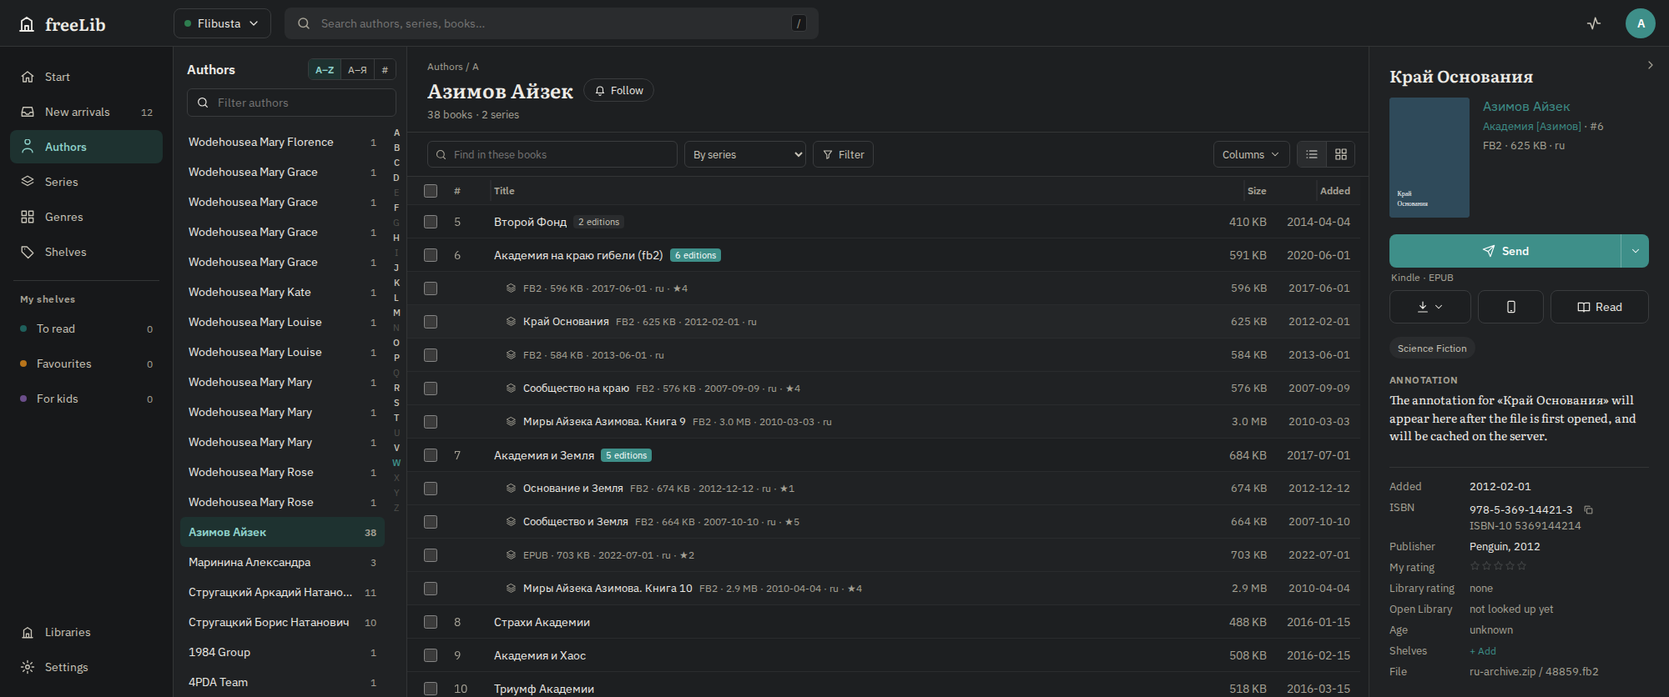
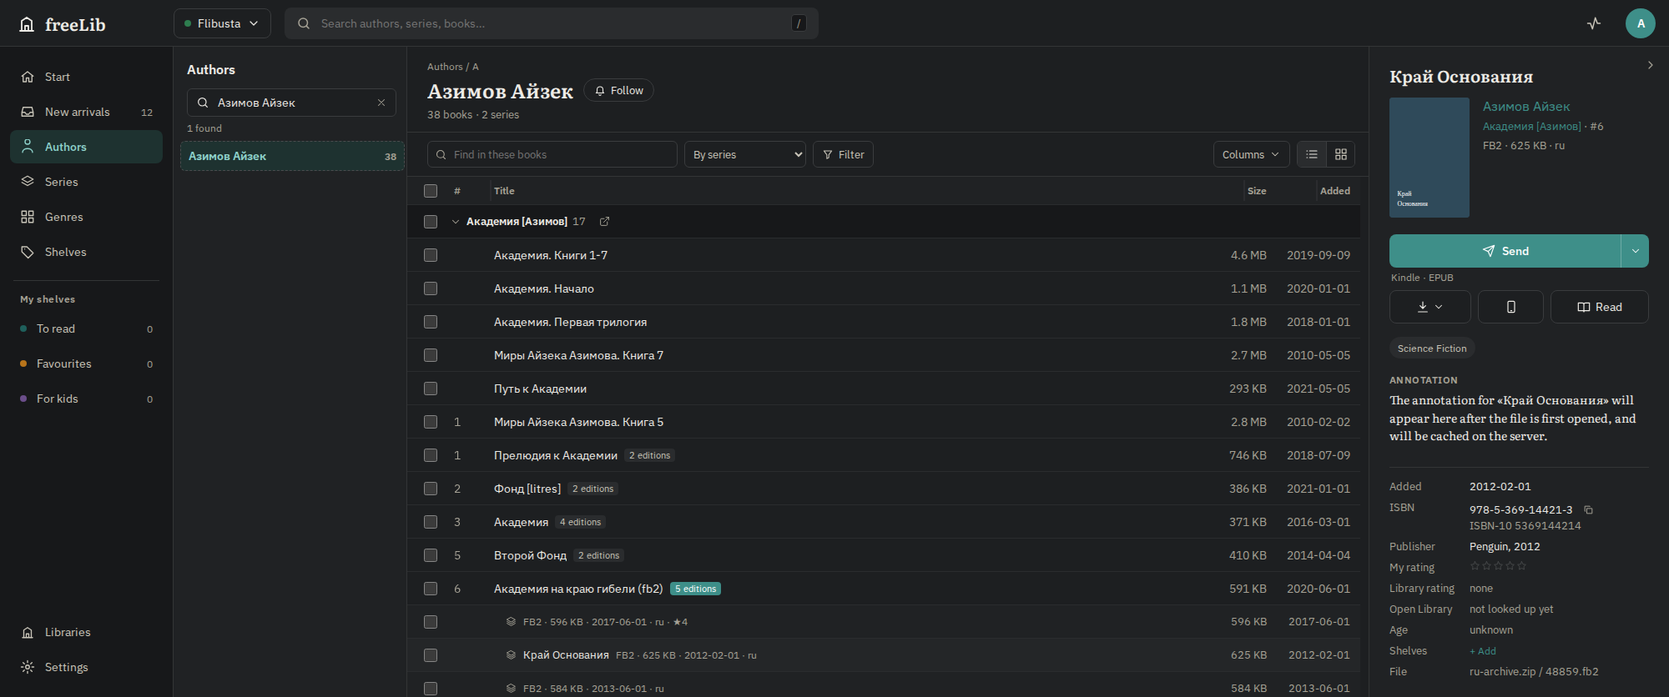
Editions: omnibus and part titles never join a work by series number (#13)
* Editions: omnibus and part titles never join a work by series number

«Миры Айзека Азимова. Книга 9» filed as #6 of «Академия [Азимов]» is an omnibus volume, not
another translation of the #6 novel: a title naming a volume (Книга N, Том N, Часть N, Vol. N,
Part N) now joins other copies only by the title rule. Catalog schema 5 (re-import).

Claude-Session: https://claude.ai/code/session_01CHpYdZBU1bJ65FXV23e9ED

* Devices e2e: reload only after the new order is saved

The drag-and-drop order test reloaded right after the optimistic UI update and could read
the order before the PUT finished (failed on CI).

Claude-Session: https://claude.ai/code/session_01CHpYdZBU1bJ65FXV23e9ED

---------

diff --git a/web/tests/fixes-editions.spec.ts b/web/tests/fixes-editions.spec.ts
@@ -53,16 +53,16 @@ test.describe('desktop', () => {
   test('expanded editions are full rows on the table grid, with their own titles', async ({ page }) => {
     await openAuthor(page, 'Азимов Айзек');
     const list = page.locator('.scroll');
-    // #6: four titles, three copies of one of them → one work
+    // #6: three titles, three copies of one of them → one work; the omnibus «Книга 9» stays apart
     const row6 = list.locator('.brow:not(.edition-row)', { hasText: /Академия на краю гибели|Край Основания|Сообщество на краю/ }).first();
-    await expect(row6.getByTestId('editions-toggle')).toHaveText('6 editions');
+    await expect(row6.getByTestId('editions-toggle')).toHaveText('5 editions');
     await row6.getByTestId('editions-toggle').click();
     const eds = list.getByTestId('edition-row');
-    await expect(eds).toHaveCount(5);
+    await expect(eds).toHaveCount(4);
     // translations under other titles show their title; copies of the group title do not
     await expect(list.getByTestId('edition-title').filter({ hasText: 'Край Основания' })).toBeVisible();
     await expect(list.getByTestId('edition-title').filter({ hasText: 'Сообщество на краю' })).toBeVisible();
-    await expect(list.getByTestId('edition-title').filter({ hasText: 'Миры Айзека Азимова. Книга 9' })).toBeVisible();
+    await expect(list.getByTestId('edition-title').filter({ hasText: 'Миры Айзека Азимова' })).toHaveCount(0);
 
     // geometry: 40px rows, stacked, the checkbox vertically inside its row
     expectStacked(await rowBoxes(list.locator('.vlist > div > div > *')), 40);
@@ -78,9 +78,9 @@ test.describe('desktop', () => {
     const cell = await eds.first().locator('.right').first().boundingBox();
     expect(Math.abs(head!.x + head!.width - (cell!.x + cell!.width))).toBeLessThan(1.5);
 
-    // #7 and #5 are joined too; the unnumbered omnibus volumes stay single
-    await expect(list.locator('.brow', { hasText: /Академия и Земля|Основание и Земля/ }).first().getByTestId('editions-toggle')).toHaveText('5 editions');
-    for (const t of ['Академия. Начало', 'Академия. Первая трилогия', 'Путь к Академии', 'Миры Айзека Азимова. Книга 7']) {
+    // #7 and #5 are joined too; omnibus volumes and unnumbered books stay single
+    await expect(list.locator('.brow', { hasText: /Академия и Земля|Основание и Земля/ }).first().getByTestId('editions-toggle')).toHaveText('4 editions');
+    for (const t of ['Академия. Начало', 'Академия. Первая трилогия', 'Путь к Академии', 'Миры Айзека Азимова. Книга 7', 'Миры Айзека Азимова. Книга 9', 'Миры Айзека Азимова. Книга 10']) {
       const r = list.locator('.brow:not(.edition-row)', { hasText: t });
       await expect(r).toHaveCount(1);
       await expect(r.getByTestId('editions-toggle')).toHaveCount(0);
@@ -148,7 +148,7 @@ test.describe('desktop', () => {
     const grid = page.locator('.grid-view');
     const head = grid.locator('.grid-group', { hasText: 'Академия [Азимов]' });
     await expect(head).toBeVisible();
-    await expect(grid.locator('.cover-card .ed-count', { hasText: '6 editions' })).toBeVisible();
+    await expect(grid.locator('.cover-card .ed-count', { hasText: '5 editions' })).toBeVisible();
     const cards = grid.locator('.cover-card');
     const n = await cards.count();
     await head.locator('.gtoggle').click();
@@ -170,7 +170,7 @@ test.describe('phone', () => {
     const list = page.locator('.mobile-list');
     const row = list.locator('.m-row', { hasText: /Академия на краю гибели|Край Основания/ }).first();
     await row.getByTestId('editions-toggle').click();
-    await expect(list.getByTestId('edition-row')).toHaveCount(5);
+    await expect(list.getByTestId('edition-row')).toHaveCount(4);
     await expect(list.getByTestId('edition-title').filter({ hasText: 'Край Основания' })).toBeVisible();
     expectStacked(await rowBoxes(list.locator('.vlist > div > div > *')), 64);
     for (const ed of await list.getByTestId('edition-row').all()) await expectCellsInside(ed);

diff --git a/web/tests-real/fixes.spec.ts b/web/tests-real/fixes.spec.ts
@@ -20,21 +20,23 @@ test('translations under other titles are one work; unnumbered books stay single
   const { id, books } = await asimov(request);
   const byNo = (n: number) => books.filter((b) => b.serno === n);
   // one row per number, with all its titles
-  expect(byNo(6)).toHaveLength(1);
-  expect(byNo(6)[0].editions?.count).toBeGreaterThanOrEqual(6);
-  expect(byNo(7)[0].editions?.count).toBeGreaterThanOrEqual(5);
+  // one row per novel, plus the omnibus volume filed under the same number
+  const novel = (n: number) => byNo(n).filter((b) => !/Миры Айзека Азимова/.test(b.title));
+  expect(novel(6)).toHaveLength(1);
+  expect(novel(6)[0].editions?.count).toBeGreaterThanOrEqual(5);
+  expect(novel(7)[0].editions?.count).toBeGreaterThanOrEqual(4);
   expect(byNo(5)[0].editions?.count).toBe(2);
   expect(byNo(8)[0].editions).toBeUndefined();
   // the best copy is a plain novel, not the omnibus volume
-  expect(byNo(6)[0].title).not.toMatch(/Книга \d/);
-  for (const t of ['Академия. Книги 1-7', 'Академия. Начало', 'Путь к Академии', 'Миры Айзека Азимова. Книга 7']) {
+  expect(novel(6)[0].title).not.toMatch(/Книга \d/);
+  for (const t of ['Академия. Книги 1-7', 'Академия. Начало', 'Путь к Академии', 'Миры Айзека Азимова. Книга 7', 'Миры Айзека Азимова. Книга 9', 'Миры Айзека Азимова. Книга 10']) {
     const b = books.find((x) => x.title === t);
     expect(b, t).toBeTruthy();
     expect(b!.editions, t).toBeUndefined();
   }
 
   // the list: the work's other titles as full rows
-  const best = byNo(6)[0];
+  const best = novel(6)[0];
   await page.goto(`/l/${LIB}/authors/${id}?book=${best.id}`);
   const row = page.locator('.scroll .brow', { hasText: best.title }).first();
   await expect(row).toBeVisible({ timeout: 15000 });

diff --git a/web/mock/find.ts b/web/mock/find.ts
@@ -189,21 +189,19 @@ export function indexWorks(lib: MockLibrary) {
     if (max > 5 || (titlesByNo.size === 1 && all.size >= 3) || (all.size >= 6 && max * 2 > all.size)) continue;
     const buckets = new Map<string, MockBook[]>();
     for (const b of list) {
+      // a title naming a volume (an omnibus «… Книга 9», a part «… Том 1») joins only by title
+      if (volumeNumber(b.title) !== null) continue;
       const k = `${b.lang}|${b.serno}|${b.authorIds[0]}`;
       (buckets.get(k) ?? buckets.set(k, []).get(k)!).push(b);
     }
     for (const bucket of buckets.values()) {
-      const vols = new Set(bucket.map((b) => volumeNumber(b.title)).filter((v) => v !== null));
-      const parts = vols.size >= 2 ? [...vols].map((v) => bucket.filter((b) => volumeNumber(b.title) === v)) : [bucket];
-      for (const part of parts) {
-        const sorted = part.slice().sort((a, b) => b.authorIds.length - a.authorIds.length);
-        const clusters: { set: Set<number>; key: string }[] = [];
-        for (const b of sorted) {
-          const set = new Set(b.authorIds);
-          const c = clusters.find((cl) => [...set].every((a) => cl.set.has(a)) || [...cl.set].every((a) => set.has(a)));
-          if (c) union(c.key, titleWorkKey(b));
-          else clusters.push({ set, key: titleWorkKey(b) });
-        }
+      const sorted = bucket.slice().sort((a, b) => b.authorIds.length - a.authorIds.length);
+      const clusters: { set: Set<number>; key: string }[] = [];
+      for (const b of sorted) {
+        const set = new Set(b.authorIds);
+        const c = clusters.find((cl) => [...set].every((a) => cl.set.has(a)) || [...cl.set].every((a) => set.has(a)));
+        if (c) union(c.key, titleWorkKey(b));
+        else clusters.push({ set, key: titleWorkKey(b) });
       }
     }
   }

diff --git a/web/tests/devices.spec.ts b/web/tests/devices.spec.ts
@@ -17,9 +17,13 @@ test('device order: arrows and drag and drop; the first device is the default ev
     await expect(page.getByRole('button', { name: 'Move Kindle (USB) up' })).toBeDisabled();
     // drag "Kobo" onto the first row
     const kobo = page.getByTestId('device-row').filter({ hasText: 'Kobo' }).locator('.handle');
+    const saved = page.waitForResponse(
+      async (r) => r.url().endsWith('/devices/order') && r.request().method() === 'PUT' && (await r.json().catch(() => []))[0]?.name === 'Kobo',
+    );
     await kobo.dragTo(page.getByTestId('device-row').first(), { targetPosition: { x: 20, y: 4 } });
     await expect.poll(async () => (await names(page))[0]).toBe('Kobo');
-    // persisted on the server
+    // persisted on the server (reload only once the new order is saved)
+    await saved;
     await page.reload();
     await expect.poll(async () => (await names(page))[0]).toBe('Kobo');
 

diff --git a/server/crates/catalog/src/works.rs b/server/crates/catalog/src/works.rs
@@ -9,8 +9,9 @@
 //! 2. **Series-number rule** ([`series_number_merges`]): same language, same series, same
 //!    series number (> 0), same first author and compatible author sets (one contains the
 //!    other) — different translations of one novel under different titles («Академия на краю
-//!    гибели», «Край Основания», «Сообщество на краю» as #6). Not applied when the titles name
-//!    different volumes (`Том 1` / `Том 2`), nor in series whose numbering looks unreliable.
+//!    гибели», «Край Основания», «Сообщество на краю» as #6). Titles naming a volume (an
+//!    omnibus `Миры Айзека Азимова. Книга 9`, a part `Том 1`) never join by this rule, only by
+//!    the title rule; nor is it applied in series whose numbering looks unreliable.
 //!
 //! Books by an unknown author and generic titles ("Избранное", "Рассказы") keep their own id.
 //! A list is grouped in memory: each work appears once, at the position of its first edition
@@ -18,8 +19,7 @@
 //!
 //! **Best copy** (first difference wins):
 //! 1. not deleted;
-//! 2. its title names no volume (`Миры Айзека Азимова. Книга 9` joined by the series-number
-//!    rule is an omnibus: a plain copy of the novel represents the work better);
+//! 2. its title names no volume (a plain copy represents the work better than `… Том 1`);
 //! 3. has a cover (as far as the server knows — covers are only known for books whose preview
 //!    was extracted; unknown ranks between yes and no);
 //! 4. format: FB2 (converts best, usually with its cover), then EPUB, then anything else;
@@ -362,7 +362,12 @@ pub fn series_number_merges(books: &[SeriesBook]) -> HashMap<i64, i64> {
         }
         // one bucket per language, number and first author
         let mut buckets: HashMap<(&str, i64, i64), Vec<&SeriesBook>> = HashMap::new();
-        for b in list.iter().filter(|b| !b.authors.is_empty()) {
+        // a title naming a volume (`Миры Айзека Азимова. Книга 9`, `Люди за спиной. Том 1`) is an
+        // omnibus or a part: it joins other copies only by the title rule
+        for b in list
+            .iter()
+            .filter(|b| !b.authors.is_empty() && b.volume.is_none())
+        {
             buckets
                 .entry((b.lang.as_str(), b.serno, b.authors[0]))
                 .or_default()
@@ -371,43 +376,23 @@ pub fn series_number_merges(books: &[SeriesBook]) -> HashMap<i64, i64> {
         let mut keys: Vec<_> = buckets.keys().copied().collect();
         keys.sort_unstable();
         for k in keys {
-            let bucket = &buckets[&k];
-            let volumes: std::collections::HashSet<u64> =
-                bucket.iter().filter_map(|b| b.volume).collect();
-            // different volumes under one number: only the same volume joins
-            let parts: Vec<Vec<&SeriesBook>> = if volumes.len() >= 2 {
-                let mut vs: Vec<u64> = volumes.into_iter().collect();
-                vs.sort_unstable();
-                vs.iter()
-                    .map(|v| {
-                        bucket
-                            .iter()
-                            .filter(|b| b.volume == Some(*v))
-                            .copied()
-                            .collect()
-                    })
-                    .collect()
-            } else {
-                vec![bucket.clone()]
-            };
-            for mut part in parts {
-                // author sets: a book joins a cluster whose set contains its own or is contained
-                part.sort_by_key(|b| std::cmp::Reverse(b.authors.len()));
-                let mut clusters: Vec<(Vec<i64>, i64)> = Vec::new();
-                for b in part {
-                    let mut set = b.authors.clone();
-                    set.sort_unstable();
-                    set.dedup();
-                    let hit = clusters.iter().position(|(cs, _)| {
-                        set.iter().all(|a| cs.binary_search(a).is_ok())
-                            || cs.iter().all(|a| set.binary_search(a).is_ok())
-                    });
-                    match hit {
-                        Some(i) => union(&mut parent, clusters[i].1, b.work),
-                        None => {
-                            parent.entry(b.work).or_insert(b.work);
-                            clusters.push((set, b.work));
-                        }
+            let mut part = buckets[&k].clone();
+            // author sets: a book joins a cluster whose set contains its own or is contained
+            part.sort_by_key(|b| std::cmp::Reverse(b.authors.len()));
+            let mut clusters: Vec<(Vec<i64>, i64)> = Vec::new();
+            for b in part {
+                let mut set = b.authors.clone();
+                set.sort_unstable();
+                set.dedup();
+                let hit = clusters.iter().position(|(cs, _)| {
+                    set.iter().all(|a| cs.binary_search(a).is_ok())
+                        || cs.iter().all(|a| set.binary_search(a).is_ok())
+                });
+                match hit {
+                    Some(i) => union(&mut parent, clusters[i].1, b.work),
+                    None => {
+                        parent.entry(b.work).or_insert(b.work);
+                        clusters.push((set, b.work));
                     }
                 }
             }
@@ -521,21 +506,21 @@ mod tests {
         ];
         let w = works_of(books);
         let same = |ix: &[usize]| ix.iter().all(|&i| w[i] == w[ix[0]]);
-        assert!(same(&[0, 1, 2]), "#1");
+        assert!(same(&[1, 2]), "#1");
         assert!(same(&[3, 4, 5, 6]), "#3");
         assert!(same(&[7, 8]), "#5");
-        assert!(same(&[9, 10, 11, 12, 13]), "#6");
-        assert!(same(&[14, 15, 16, 17]), "#7");
+        assert!(same(&[9, 10, 11, 13]), "#6");
+        assert!(same(&[14, 16, 17]), "#7");
         assert!(same(&[27, 28]), "#2");
         // numbers stay apart
-        let firsts = [0, 27, 3, 7, 9, 14, 18, 19, 20];
+        let firsts = [1, 27, 3, 7, 9, 14, 18, 19, 20];
         for (a, &i) in firsts.iter().enumerate() {
             for &j in &firsts[a + 1..] {
                 assert_ne!(w[i], w[j], "{} / {}", books[i].0, books[j].0);
             }
         }
-        // unnumbered books are only their own work
-        for i in 21..=26 {
+        // omnibus volumes and unnumbered books are only their own work
+        for i in [0, 12, 15].into_iter().chain(21..=26) {
             assert!(
                 w.iter().enumerate().all(|(j, &x)| j == i || x != w[i]),
                 "{}",

diff --git a/server/crates/import/tests/catalog.rs b/server/crates/import/tests/catalog.rs
@@ -1088,7 +1088,7 @@ fn showcase_editions_are_grouped() {
     };
     let stats = import_inpx(&opts, &|_, _, _: &str| {}, &AtomicBool::new(false)).unwrap();
     assert!(
-        stats.series_works_joined >= 10,
+        stats.series_works_joined >= 8,
         "{}",
         stats.series_works_joined
     );
@@ -1112,12 +1112,10 @@ fn showcase_editions_are_grouped() {
             "Академия на краю гибели",
             "Академия на краю гибели (fb2)",
             "Край Основания",
-            "Миры Айзека Азимова. Книга 9",
             "Сообщество на краю",
         ],
         &[
             "Академия и Земля",
-            "Миры Айзека Азимова. Книга 10",
             "Основание и Земля",
             "Сообщество и Земля",
         ],
@@ -1137,6 +1135,9 @@ fn showcase_editions_are_grouped() {
     assert_ne!(one("Страхи Академии"), one("Академия и Хаос"));
     assert_ne!(one("Академия на краю гибели"), one("Академия и Земля"));
     for t in [
+        "Миры Айзека Азимова. Книга 5",
+        "Миры Айзека Азимова. Книга 9",
+        "Миры Айзека Азимова. Книга 10",
         "Академия. Книги 1-7",
         "Академия. Начало",
         "Академия. Первая трилогия",

diff --git a/server/crates/catalog/src/schema.rs b/server/crates/catalog/src/schema.rs
@@ -10,7 +10,9 @@ use rusqlite::Connection;
 ///    (editions of one work).
 /// 4: better edition detection: `work_id` also joins translations under other titles by
 ///    series number, title keys drop format notes / repeated volume numbers (re-import).
-pub const CATALOG_SCHEMA_VERSION: i64 = 4;
+/// 5: omnibus / part titles (`Миры Айзека Азимова. Книга 9`) no longer join a work by series
+///    number (re-import).
+pub const CATALOG_SCHEMA_VERSION: i64 = 5;
 
 /// Catalog tables. Created on an empty database by the importer *before* the bulk load;
 /// indexes ([`CATALOG_INDEXES`]) are created afterwards.

diff --git a/docs/web/ARCHITECTURE.md b/docs/web/ARCHITECTURE.md
@@ -199,7 +199,7 @@ top-level "Прочее" (id 11). A book's genre ids are deduplicated; books wit
 * **Editions** (`works.rs`, see "Editions: how works are detected" below): `work_id` = the smallest book id of the
   work. Lists group in memory (`BookAttrs` now also holds size and work id, +8 bytes/book, and a "title names a
   volume" flag), each work at the position of its first edition; the best copy: not deleted > title names no volume
-  (an omnibus «Миры Айзека Азимова. Книга 9» joined by series number never represents the novel) > known cover >
+  (a plain copy represents the work better than `… Том 1`) > known cover >
   FB2 > EPUB > other > larger (20 % buckets, ≤ 30 MB) > newer > library rating > lower id. Covers are known per library and `book_key` from preview extraction since the server started
   (`find::CoverHints`, not persisted) and passed as `RatingSource::has_cover`. Grouped pages are cut by offset from
   the grouped selection. Search groups after ranking; MCP `search_books` always groups.
@@ -226,18 +226,17 @@ it once, as its best copy, with "N editions" to open the others. The importer (`
    (normalised series name), the same series number (> 0), the same language and the same first author, whose author
    sets are compatible (one contains the other: `{Азимов}` and `{Азимов, Сильверберг}` join, `{Азимов, X}` and
    `{Азимов, Y}` do not), are one work — different Russian titles of one novel: «Академия на краю гибели», «Край
-   Основания», «Сообщество на краю» and «Миры Айзека Азимова. Книга 9», all #6 of «Академия [Азимов]». Guards:
+   Основания» and «Сообщество на краю», all #6 of «Академия [Азимов]». Guards:
    * books without a number (or #0) are never joined by this rule («Академия. Первая трилогия», «Путь к Академии»);
-   * titles naming **different volumes** under one number (`Том 1` / `Том 2`, `Книга 9` / `Книга 10`) are not
-     joined; only copies of the same volume are;
+   * titles naming a **volume** (`Книга N`, `Том N`, `Часть N`, `Vol. N`, `Part N`) never join by this rule: an
+     omnibus filed under a number («Миры Айзека Азимова. Книга 9» as #6) stays its own work, and parts
+     (`Том 1` / `Том 2`) only join copies with the same title by the title rule;
    * series whose numbering looks unreliable are skipped entirely: a number with more than 5 distinct titles, all
      titles under one number (3 or more), or one number holding most of the titles of a series with 6 or more.
    Works joined here also merge their title-rule editions (a union-find over work ids; the smallest id wins), and the
    count is reported as `seriesWorksJoined` in the import stats.
 
-An omnibus filed under a number (a "Книга 5" collection as #1) joins that number's work: the catalog cannot tell
-it apart from a translation, but the best-copy rule never shows it as the row. The edition list shows each edition's
-own title when it differs from the row's title. Changing these rules bumps `CATALOG_SCHEMA_VERSION`, which re-imports
+The edition list shows each edition's own title when it differs from the row's title. Changing these rules bumps `CATALOG_SCHEMA_VERSION`, which re-imports
 every library once at start. Unit tests with the real titles: `catalog/src/works.rs`, `catalog/src/text.rs`; an import
 test over the gen-inpx "showcase" books (`import/tests/catalog.rs`).
 

diff --git a/docs/web/API.md b/docs/web/API.md
@@ -263,11 +263,11 @@ The importer gives every book a work (full rules: ARCHITECTURE.md, "Editions: ho
 language and same set of authors, and either the same title without trailing edition notes (`(другой перевод)`,
 `[иллюстрации]`, `(СИ)`, `(пер. …)`, `(ред. …)`, `[litres]`, `(fb2)`; other bracketed text such as `(Часть 2)` or
 `(сборник)` is kept; `Книга N` dropped only when it repeats the series number), or the same series and series number
-(> 0), different titles allowed (translations under other titles), unless the titles name different volumes or the
-series numbering looks unreliable. Books by "Автор неизвестен" and generic titles ("Избранное", "Рассказы",
+(> 0), different titles allowed (translations under other titles), unless a title names a volume (an omnibus
+`… Книга 9`, a part `Том 1`) or the series numbering looks unreliable. Books by "Автор неизвестен" and generic titles ("Избранное", "Рассказы",
 "Стихотворения", …) are never grouped by title. Editions of one work can therefore have different titles: an
 `Edition`'s own `title` is what the edition list shows. A grouped list shows each work once, at the position of its
-first edition in the list, as its **best copy**: not deleted > title names no volume (not an omnibus `Книга 9`) >
+first edition in the list, as its **best copy**: not deleted > title names no volume >
 has a cover (as far as the server knows — covers are known for books whose preview was
 extracted since the server started) > FB2 > EPUB > other > larger file (20 % steps, capped at 30 MB) > newer date >
 higher library rating > lower id. Sending or downloading a grouped row uses that id; any edition can be picked instead.
